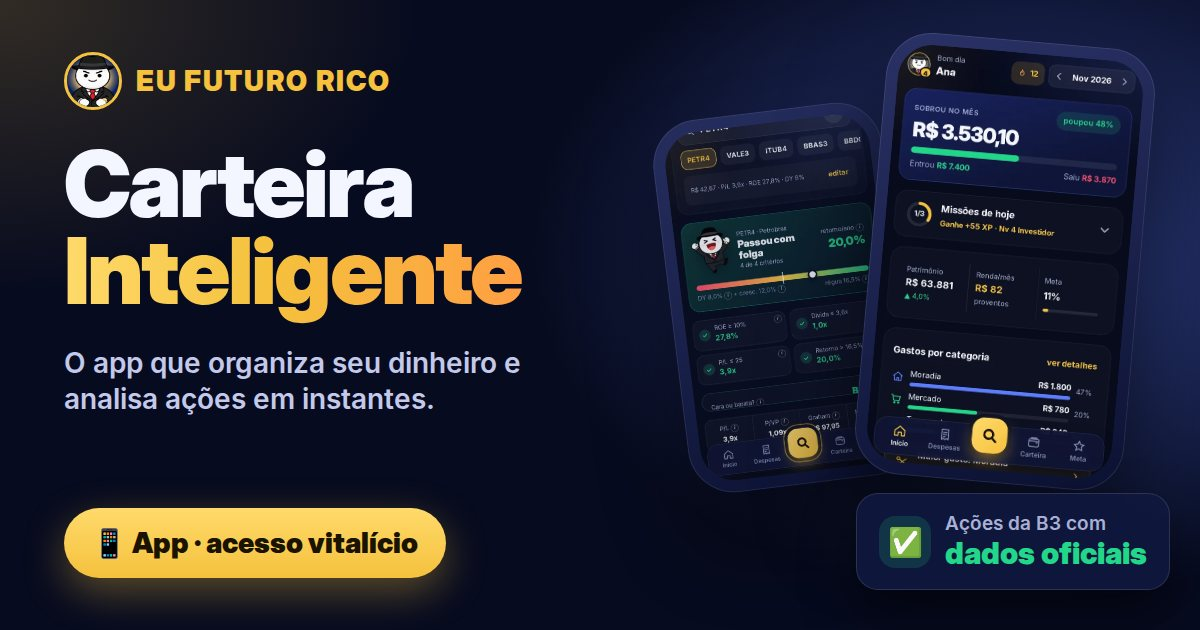
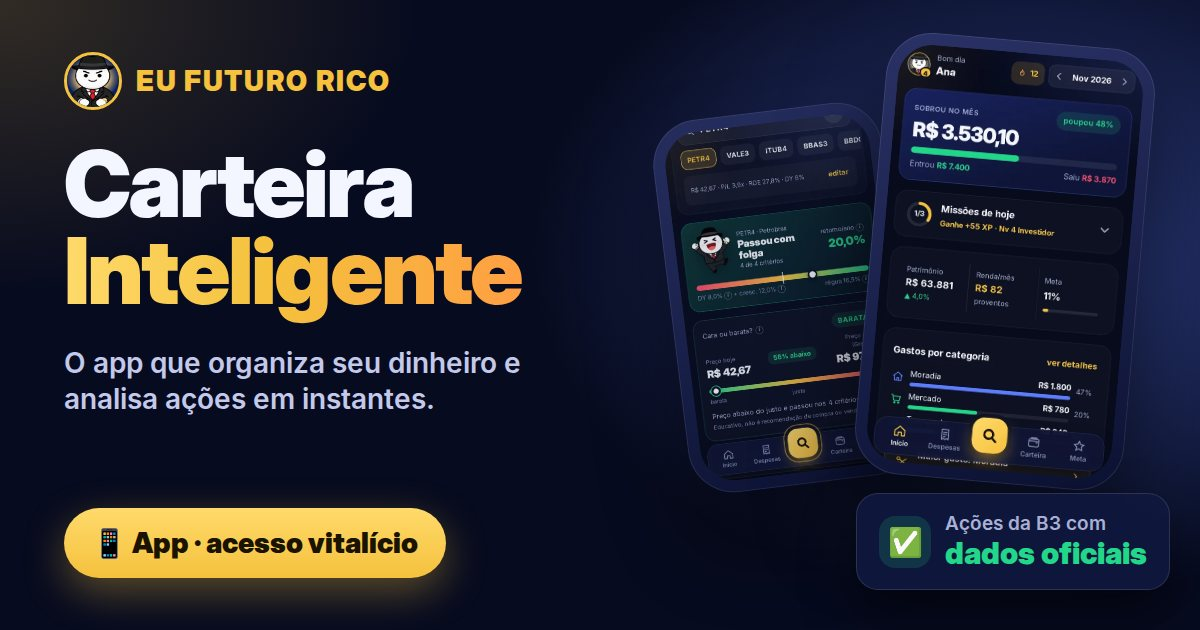
oferta: imagens atualizadas a partir do app

Changed region(s): [[0.5858, 0.573, 0.7092, 0.6937], [0.6475, 0.4825, 0.74, 0.6032], [0.5858, 0.5127, 0.6167, 0.5429]]

diff --git a/oferta/index.html b/oferta/index.html
@@ -9,7 +9,7 @@
 <meta name="theme-color" content="#070B1F">
 <meta property="og:title" content="Carteira Inteligente · Eu Futuro Rico">
 <meta property="og:description" content="Organize o mês, analise ações em instantes e acompanhe sua renda passiva. Dados oficiais do Banco Central, CVM e B3.">
-<meta property="og:image" content="https://eufuturorico.netlify.app/oferta/img/og.jpg?v=9851fde8">
+<meta property="og:image" content="https://eufuturorico.netlify.app/oferta/img/og.jpg?v=94a1c420">
 <meta property="og:image:width" content="1200">
 <meta property="og:image:height" content="630">
 <meta property="og:image:alt" content="App Carteira Inteligente do Eu Futuro Rico">
@@ -22,11 +22,11 @@
 <meta name="twitter:card" content="summary_large_image">
 <meta name="twitter:title" content="Carteira Inteligente · Eu Futuro Rico">
 <meta name="twitter:description" content="Descubra em instantes se uma ação vale o seu dinheiro. Orçamento, análise de ações, carteira e renda passiva no celular.">
-<meta name="twitter:image" content="https://eufuturorico.netlify.app/oferta/img/og.jpg?v=9851fde8">
+<meta name="twitter:image" content="https://eufuturorico.netlify.app/oferta/img/og.jpg?v=94a1c420">
 <meta name="robots" content="index,follow,max-image-preview:large">
 <link rel="canonical" href="https://eufuturorico.netlify.app/oferta/">
 <link rel="apple-touch-icon" href="/img/apple-touch-icon.png">
-<script type="application/ld+json">[{"@context": "https://schema.org", "@type": "Product", "name": "Carteira Inteligente", "description": "App de celular que organiza o orçamento, analisa quase 300 ações da B3 em instantes com dados oficiais (CVM, B3 e Banco Central), acompanha carteira e proventos e calcula quando você vive de renda.", "image": ["https://eufuturorico.netlify.app/oferta/img/og.jpg?v=9851fde8", "https://eufuturorico.netlify.app/oferta/img/home.webp?v=c1c7df7a"], "brand": {"@type": "Brand", "name": "Eu Futuro Rico"}, "category": "Finanças pessoais", "offers": {"@type": "Offer", "url": "https://eufuturorico.netlify.app/oferta/", "price": "47.00", "priceCurrency": "BRL", "availability": "https://schema.org/InStock", "priceValidUntil": "2027-12-31", "hasMerchantReturnPolicy": {"@type": "MerchantReturnPolicy", "applicableCountry": "BR", "returnPolicyCategory": "https://schema.org/MerchantReturnFiniteReturnWindow", "merchantReturnDays": 7, "returnFees": "https://schema.org/FreeReturn"}}}, {"@context": "https://schema.org", "@type": "FAQPage", "mainEntity": [{"@type": "Question", "name": "Preciso baixar na App Store ou Play Store?", "acceptedAnswer": {"@type": "Answer", "text": "Não. O app abre pelo navegador do celular e você instala na tela inicial com dois toques. Ele fica com ícone, abre em tela cheia e funciona até sem internet."}}, {"@type": "Question", "name": "Funciona no iPhone e no Android?", "acceptedAnswer": {"@type": "Answer", "text": "Sim, nos dois. Também abre no computador, se você quiser."}}, {"@type": "Question", "name": "Como eu acesso depois de comprar?", "acceptedAnswer": {"@type": "Answer", "text": "Abra eufuturorico.netlify.app e digite o mesmo e-mail que você usou na compra. Você recebe um código de 6 números e entra. O acesso fica salvo no seu celular por 6 meses e é renovado quando você entrar de novo."}}, {"@type": "Question", "name": "É assinatura? Vou pagar todo mês?", "acceptedAnswer": {"@type": "Answer", "text": "Não. É um pagamento único de R$ 47, com acesso vitalício e todas as atualizações futuras incluídas."}}, {"@type": "Question", "name": "Onde ficam meus dados? Alguém vê meus gastos?", "acceptedAnswer": {"@type": "Answer", "text": "Seus lançamentos e sua carteira ficam salvos só no seu celular. Ninguém vê, nem nós. Os dados não passam sozinhos para outro aparelho; para trocar de celular, use o botão de backup do app e restaure no aparelho novo."}}, {"@type": "Question", "name": "Preciso entender de investimentos?", "acceptedAnswer": {"@type": "Answer", "text": "Não. Cada número tem um botão ⓘ que explica em linguagem simples o que ele mostra e como ler. A lição do dia também ensina um conceito por dia."}}, {"@type": "Question", "name": "O app recomenda quais ações comprar?", "acceptedAnswer": {"@type": "Answer", "text": "Não. É uma ferramenta educativa: ela aplica critérios objetivos e mostra os números, mas a decisão é sempre sua. Nenhum resultado é recomendação de compra ou venda."}}, {"@type": "Question", "name": "E se eu não gostar?", "acceptedAnswer": {"@type": "Answer", "text": "Você tem 7 dias de garantia incondicional. Pede o reembolso pela Kiwify e recebe 100% de volta."}}]}]</script>
+<script type="application/ld+json">[{"@context": "https://schema.org", "@type": "Product", "name": "Carteira Inteligente", "description": "App de celular que organiza o orçamento, analisa quase 300 ações da B3 em instantes com dados oficiais (CVM, B3 e Banco Central), acompanha carteira e proventos e calcula quando você vive de renda.", "image": ["https://eufuturorico.netlify.app/oferta/img/og.jpg?v=94a1c420", "https://eufuturorico.netlify.app/oferta/img/home.webp?v=c1c7df7a"], "brand": {"@type": "Brand", "name": "Eu Futuro Rico"}, "category": "Finanças pessoais", "offers": {"@type": "Offer", "url": "https://eufuturorico.netlify.app/oferta/", "price": "47.00", "priceCurrency": "BRL", "availability": "https://schema.org/InStock", "priceValidUntil": "2027-12-31", "hasMerchantReturnPolicy": {"@type": "MerchantReturnPolicy", "applicableCountry": "BR", "returnPolicyCategory": "https://schema.org/MerchantReturnFiniteReturnWindow", "merchantReturnDays": 7, "returnFees": "https://schema.org/FreeReturn"}}}, {"@context": "https://schema.org", "@type": "FAQPage", "mainEntity": [{"@type": "Question", "name": "Preciso baixar na App Store ou Play Store?", "acceptedAnswer": {"@type": "Answer", "text": "Não. O app abre pelo navegador do celular e você instala na tela inicial com dois toques. Ele fica com ícone, abre em tela cheia e funciona até sem internet."}}, {"@type": "Question", "name": "Funciona no iPhone e no Android?", "acceptedAnswer": {"@type": "Answer", "text": "Sim, nos dois. Também abre no computador, se você quiser."}}, {"@type": "Question", "name": "Como eu acesso depois de comprar?", "acceptedAnswer": {"@type": "Answer", "text": "Abra eufuturorico.netlify.app e digite o mesmo e-mail que você usou na compra. Você recebe um código de 6 números e entra. O acesso fica salvo no seu celular por 6 meses e é renovado quando você entrar de novo."}}, {"@type": "Question", "name": "É assinatura? Vou pagar todo mês?", "acceptedAnswer": {"@type": "Answer", "text": "Não. É um pagamento único de R$ 47, com acesso vitalício e todas as atualizações futuras incluídas."}}, {"@type": "Question", "name": "Onde ficam meus dados? Alguém vê meus gastos?", "acceptedAnswer": {"@type": "Answer", "text": "Seus lançamentos e sua carteira ficam salvos só no seu celular. Ninguém vê, nem nós. Os dados não passam sozinhos para outro aparelho; para trocar de celular, use o botão de backup do app e restaure no aparelho novo."}}, {"@type": "Question", "name": "Preciso entender de investimentos?", "acceptedAnswer": {"@type": "Answer", "text": "Não. Cada número tem um botão ⓘ que explica em linguagem simples o que ele mostra e como ler. A lição do dia também ensina um conceito por dia."}}, {"@type": "Question", "name": "O app recomenda quais ações comprar?", "acceptedAnswer": {"@type": "Answer", "text": "Não. É uma ferramenta educativa: ela aplica critérios objetivos e mostra os números, mas a decisão é sempre sua. Nenhum resultado é recomendação de compra ou venda."}}, {"@type": "Question", "name": "E se eu não gostar?", "acceptedAnswer": {"@type": "Answer", "text": "Você tem 7 dias de garantia incondicional. Pede o reembolso pela Kiwify e recebe 100% de volta."}}]}]</script>
 <link rel="icon" type="image/png" href="/img/favicon.png">
 <link rel="preload" href="/fonts/InterDisplay-Black.woff2" as="font" type="font/woff2" crossorigin>
 <link rel="preload" href="/fonts/Inter-Regular.woff2" as="font" type="font/woff2" crossorigin>
@@ -403,7 +403,7 @@ section[id]{scroll-margin-top:60px}
           <li><svg class="ico"><use href="#i-info"/></svg><span><b>Um botão em cada indicador</b> explica o que é e como ler. Você aprende enquanto analisa.</span></li>
         </ul>
       </div>
-      <div class="vis"><div class="phone"><img src="/oferta/img/analise.webp?v=9ecaadd2" alt="Tela de análise de ação com o resultado 'Passou com folga' e os 4 critérios" loading="lazy" width="585" height="996"></div></div>
+      <div class="vis"><div class="phone"><img src="/oferta/img/analise.webp?v=6b72226f" alt="Tela de análise de ação com o resultado 'Passou com folga' e os 4 critérios" loading="lazy" width="585" height="996"></div></div>
     </div>
 
     <div class="pane" role="tabpanel" id="p2" aria-labelledby="t2" hidden>
